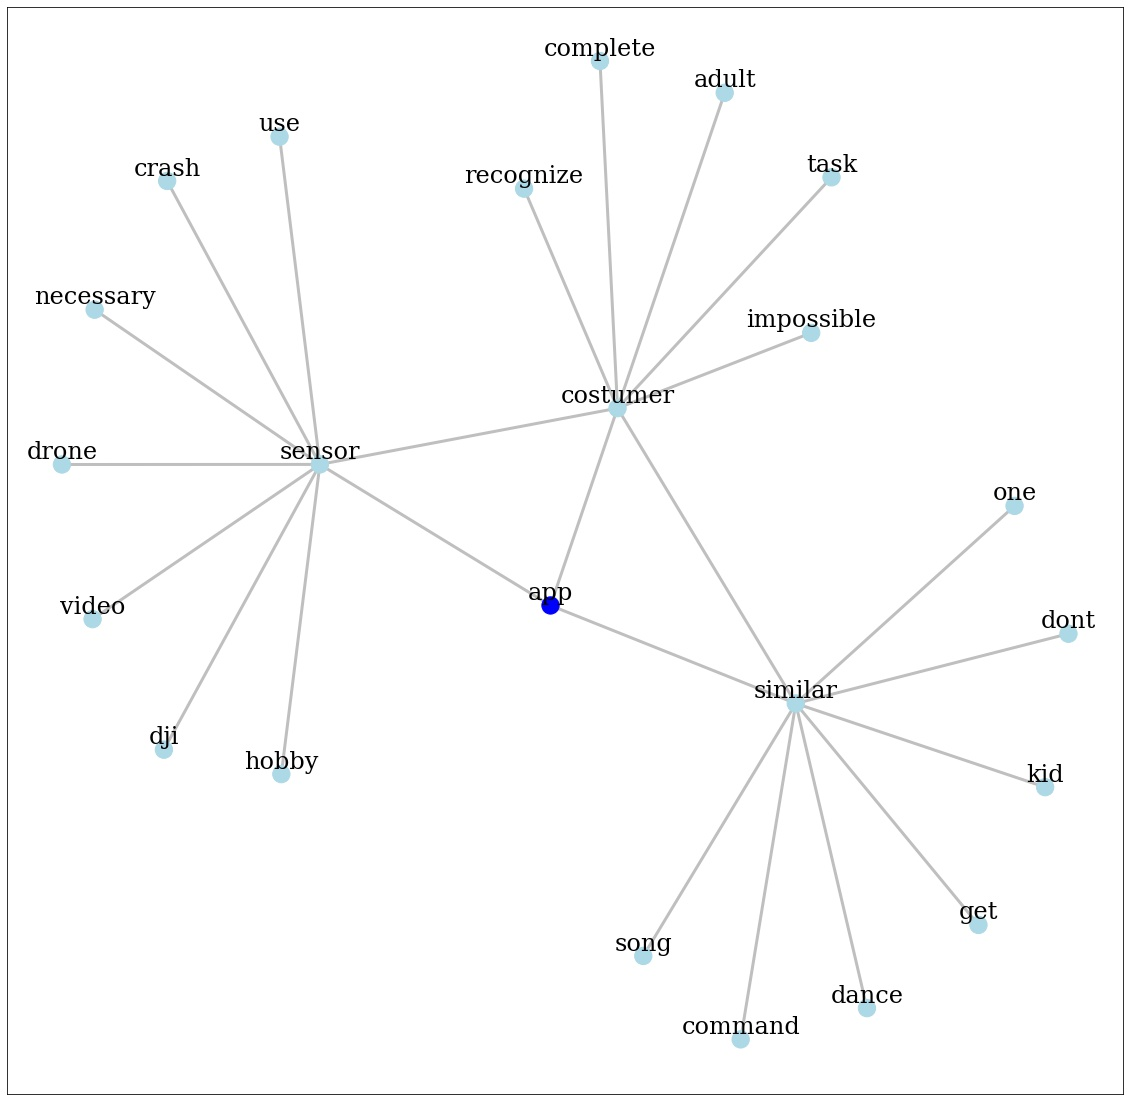
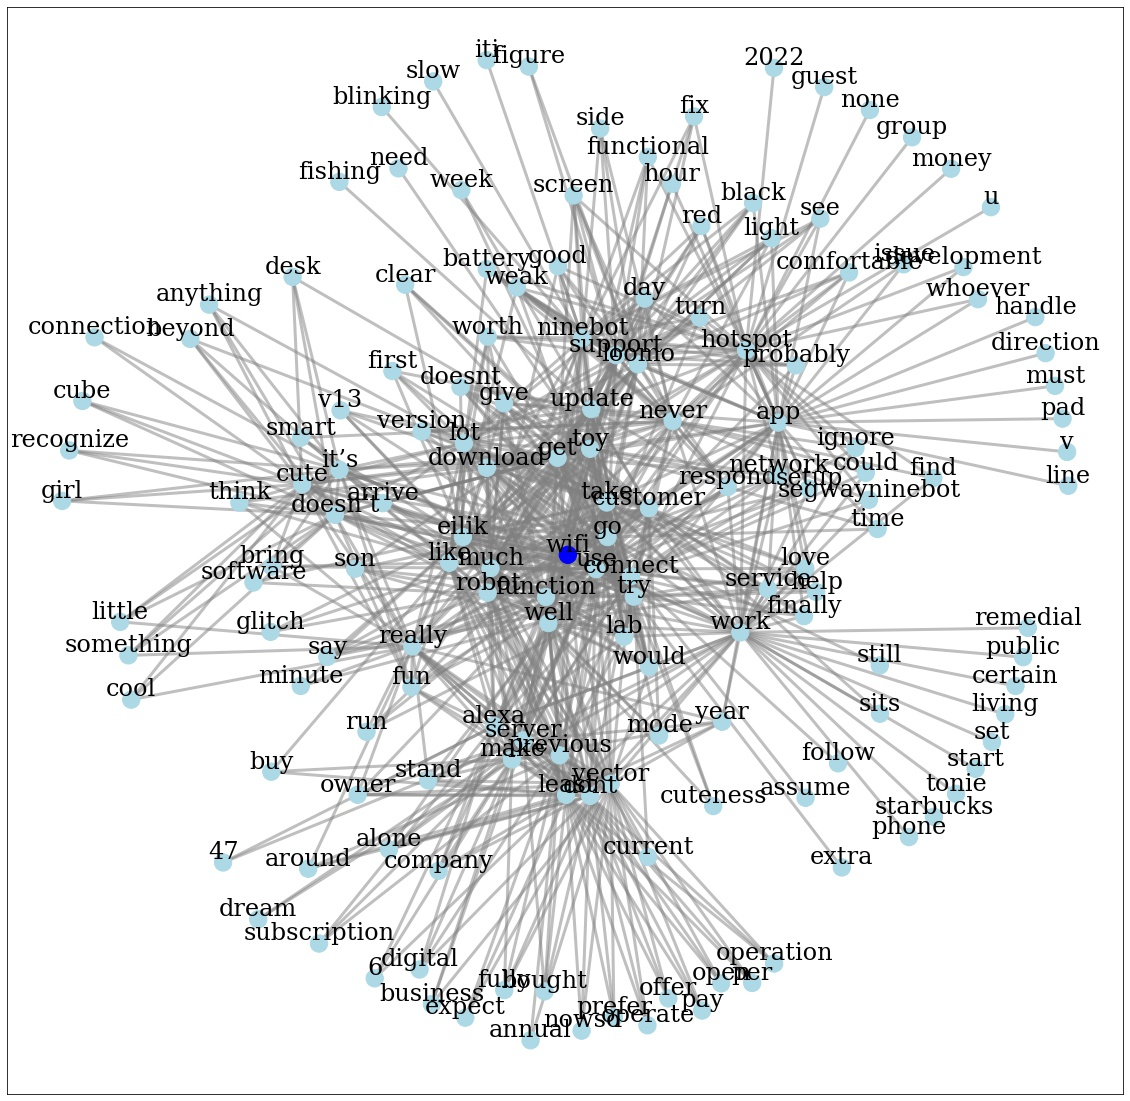
beautify

diff --git a/view/analyze_data.html b/view/analyze_data.html
@@ -19,39 +19,42 @@
   
 	<form action="generate_level_2" method="POST" style="display:flex;align-items:center;margin-bottom:10px">
       <label style="white-space:nowrap;margin-right:10px">Level 1 Keyword: </label>
-      <input name="level_1" class="form-control" type="text">
-      <button type="submit" class="btn btn-primary" style="white-space:nowrap;margin-left:10px">Generate Level 2</button>
+      <input type="text" name="level_1" value="{{ level_1 }}" class="form-control">
+      <input type="submit" value="Generate Level 2" class="btn btn-primary" style="white-space:nowrap;margin-left:10px">
     </form>
     
     <form action="generate_level_3" method="POST">
       <div style="display:flex;align-items:center;margin-bottom:10px">
         <label style="margin-right:auto"> 3. Pick the level 2 keywords: </label>	
-        <button type="submit" class="btn btn-primary">Generate Level 3</button>
+        <input type="submit" value="Generate Level 3" class="btn btn-primary">
       </div>
       <table class="table table-striped table-bordered">
         <thead class="table-dark">
         <tr>
-          <th scope="col">Level 2 Node</th>
-          <th scope="col">Eigenvector Centrality</th>
-          <th scope="col">Selection</th>
+          <th style="text-align:center">Level 2 Node</th>
+          <th style="text-align:center">Eigenvector Centrality</th>
+          <th style="text-align:center">Selection</th>
         </tr>
     	</thead>
     	<tbody>
     	  {% for node, centrality in level_2.items() %}
     	  <tr>
-    	    <td>{{node}}</td>
-    	    <td>{{centrality}}</td>
-    	    <td><input type="checkbox" value={{node}} name="chosen_nodes" id="chosen_nodes"></td>
+    	    <td style="text-align:center">{{node}}</td>
+    	    <td style="text-align:center">{{centrality}}</td>
+    	    <td style="text-align:center"><input type="checkbox" value={{node}} name="chosen_nodes" {% if node in chosen_nodes %} checked {% endif %} style="transform: scale(1.5)"></td>
     	  </tr>
     	  {% endfor %}
     	</tbody>
     	</table>	
+    	<input type="hidden" name="level_1" value="{{ level_1 }}" class="form-control">
     </form>
     
   </div>
 
   <div style="width:50%;padding:10px">
-    <img src="./static/network.jpg" style="width:100%">
+    {% if level_1 %}
+      <img src="./static/network.jpg" style="width:100%">
+    {% endif %}
   </div>
 
 </div>

diff --git a/controller/controller.py b/controller/controller.py
@@ -1,11 +1,12 @@
 import json
+import util.utility as utility
 import service.service as service
-from flask import render_template, Blueprint, request, redirect
+from flask import render_template, Blueprint, request, redirect, url_for
 
 home = Blueprint("home", __name__)
 analyze_data = Blueprint("analyze_data", __name__)
-craw_links = Blueprint("craw_links", __name__)
-craw_reviews = Blueprint("craw_reviews", __name__)
+crawl_links = Blueprint("crawl_links", __name__)
+crawl_reviews = Blueprint("crawl_reviews", __name__)
 generate_level_2 = Blueprint("generate_level_2", __name__)
 generate_level_3 = Blueprint("generate_level_3", __name__)
 
@@ -15,31 +16,31 @@ def index():
 
 @analyze_data.route("/analyze_data")
 def analyze_data_controller():
-    level_2 = json.load(open('cache/level_2.json', 'r'))
-    return render_template("analyze_data.html", level_2=level_2)
+    level_1 = request.args.get('level_1', '')
+    level_2 = json.load(open('cache/level_2.json', 'r')) if level_1 else {}
+    return render_template("analyze_data.html", level_1=level_1, level_2=level_2, chosen_nodes=request.args.getlist('chosen_nodes'))
 
-@craw_links.route("/craw_links", methods=["POST"])
-def craw_links_controller():
+@crawl_links.route("/crawl_links", methods=["POST"])
+def crawl_links_controller():
     product_name = request.form.get("product_name").replace(" ","+")
     service.crawl_link(product_name)
     return redirect("home")
 
-@craw_reviews.route("/craw_reviews", methods=["POST"])
-def craw_reviews_controller():
+@crawl_reviews.route("/crawl_reviews", methods=["POST"])
+def crawl_reviews_controller():
     service.crawl_review()
     return redirect("analyze_data")
 
 @generate_level_2.route("/generate_level_2", methods=["POST"])
 def generate_level_2_controller():
-#    level_1 = request.form.get("level_1")
-    level_1 = "app"
-    print("hi i'm " + str(level_1))
+    level_1 = request.form.get("level_1")
     level_2 = service.get_level_2(level_1)
     json.dump(level_2, open('cache/level_2.json', 'w'))
-    return redirect("analyze_data")
+    return redirect(url_for("analyze_data.analyze_data_controller", level_1=level_1))
 
 @generate_level_3.route("/generate_level_3", methods=["POST"])
 def generate_level_3_controller():
     chosen_nodes = request.form.getlist("chosen_nodes")
-    service.get_network(chosen_nodes) # i suppose level_1 node can be referred
-    return redirect("analyze_data")
+    network = service.get_level_3(chosen_nodes)
+    utility.save_network_graph(network)
+    return redirect(url_for("analyze_data.analyze_data_controller", chosen_nodes=chosen_nodes, level_1=request.form.get("level_1")))

diff --git a/service/service.py b/service/service.py
@@ -1,13 +1,13 @@
 import os
-import util.utility as utility
 import pandas as pd
+import util.utility as utility
 
 def crawl_link(product_name):
     start_url = "https://www.amazon.com/s?k=" + product_name
-    open("cache/start_url.txt", "w").write(start_url)
+    open("cache/start_url.txt", "w").write(start_url) # need to pass start_url to scrapy in this way
     os.chdir("crawler/crawler/spiders")
     os.system("scrapy crawl link_spider -O ../../../cache/link.xlsx")
-    os.chdir("../../..") # otherwise will stay there
+    os.chdir("../../..")
     
 def crawl_review():
     os.chdir("crawler/crawler/spiders")
@@ -15,20 +15,21 @@ def crawl_review():
     os.chdir("../../..")
 
 def get_level_2(level_1):
+    if not level_1: return
     print("reading file...")
     reviews = list(pd.read_excel("cache/review.xlsx")["review"])
     print("preprocessing text data...")
     reviews = utility.preprocess(reviews, level_1)
     print("drawing network...")
     network = utility.get_network(reviews, level_1)
-    print("calculating centralities...")
     network.to_excel("cache/network.xlsx", index=False)
+    utility.save_network_graph(network)
+    print("calculating centralities...")
     level_2 = utility.get_eigenvector_centralities(network)
-    print("results returned")
+    print("results returned")    
     return level_2
 
-def get_network(chosen_nodes):
+def get_level_3(level_2):
     network = pd.read_excel("cache/network.xlsx")
-    simplified_network = utility.simplify_network(network, chosen_nodes)
-    fig = utility.visualize_network(simplified_network)
-    fig.savefig("view/static/network.jpg",bbox_inches='tight')
+    simplified_network = utility.simplify_network(network, level_2)
+    return simplified_network

diff --git a/util/utility.py b/util/utility.py
@@ -97,7 +97,7 @@ def simplify_network(network, chosen_nodes):
         simplified_network.append(level_2_edges)
     return pd.concat(simplified_network)
 
-def visualize_network(network): # the first row is assured to be level 1 node. plz name it
+def save_network_graph(network): # the first row is assured to be level 1 node. plz name it
 
     G = nx.from_pandas_edgelist(network,
                                 source = "parent_node",
@@ -123,11 +123,9 @@ def visualize_network(network): # the first row is assured to be level 1 node. p
     for k, v in pos.items():
         pos_higher[k] = (v[0], v[1]+y_off)
 
-    d = dict(G.degree)
     nx.draw_networkx_nodes(G, pos, node_color = ["blue",] + ["lightblue",] * (len(G.nodes())-1), ax = ax) # labels=True removed
 #    nx.draw_networkx_nodes(G, pos, node_color = "lightblue", labels = True, ax = ax)
     nx.draw_networkx_edges(G, pos, node_size = 1000,edge_color = "grey", width = 3, ax=ax, alpha = 0.5)
     nx.draw_networkx_labels(G, pos_higher, node_label, font_size=24, font_family = "serif", ax=ax)
-    return fig
+    fig.savefig("view/static/network.jpg",bbox_inches='tight')
     
-

diff --git a/main.py b/main.py
@@ -1,5 +1,6 @@
+import logging
 from flask import Flask
-from controller.controller import home, analyze_data, craw_links, craw_reviews, generate_level_2, generate_level_3
+from controller.controller import home, analyze_data, crawl_links, crawl_reviews, generate_level_2, generate_level_3
 
 app = Flask(
     __name__, 
@@ -11,10 +12,13 @@ app.config.update(dict(
     SEND_FILE_MAX_AGE_DEFAULT=0,
 ))
 
+log = logging.getLogger('werkzeug')
+log.setLevel(logging.ERROR)
+
 app.register_blueprint(home)
 app.register_blueprint(analyze_data)
-app.register_blueprint(craw_links)
-app.register_blueprint(craw_reviews)
+app.register_blueprint(crawl_links)
+app.register_blueprint(crawl_reviews)
 app.register_blueprint(generate_level_2)
 app.register_blueprint(generate_level_3)
 
